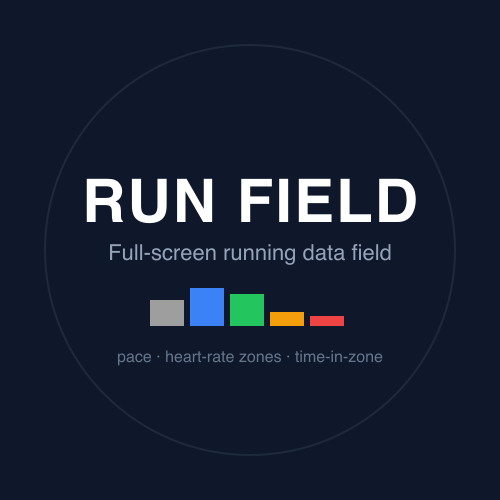
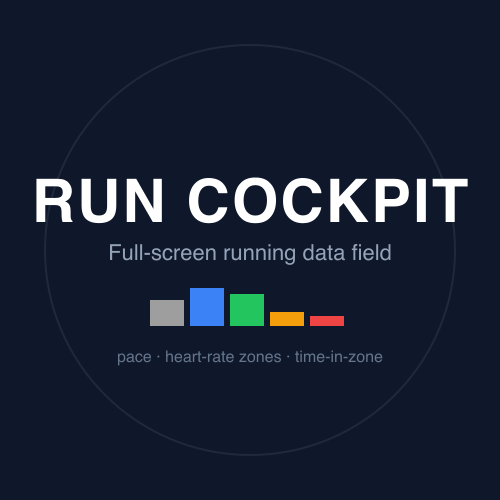
rename: Run Field -> Run Cockpit (dir, classes, strings, recipes, docs, store assets)
App ids are unchanged; the Store listing titles are renamed manually in the
dashboard on the next upload. bin/ intermediates cleaned.

Changed region(s): [[0.06, 0.33, 0.93, 0.45]]

diff --git a/RELEASE.md b/RELEASE.md
@@ -1,37 +1,37 @@
-# Releasing Run Field
+# Releasing Run Cockpit
 
 Two Connect IQ Store listings share one codebase and **one version number**. `just release`
 builds both signed `.iq` files at that version, so the listings never drift.
 
 | Track | App id | Name | Visibility | Artifact | Status |
 |---|---|---|---|---|---|
-| Beta | `2aa9eff51b0642519e6214de6db52342` | Run Field (Beta) | Private / unlisted | `bin/run-field-beta.iq` | **live** |
-| Public | `5f713bad3e2544559f1ba1cff9e59aa3` | Run Field | Public | `bin/run-field.iq` | pending listing |
+| Beta | `2aa9eff51b0642519e6214de6db52342` | Run Cockpit (Beta) | Private / unlisted | `bin/run-cockpit-beta.iq` | **live** |
+| Public | `5f713bad3e2544559f1ba1cff9e59aa3` | Run Cockpit | Public | `bin/run-cockpit.iq` | pending listing |
 
-The **Beta** listing is the one currently registered in Garmin — `run-field-beta.iq` is what
+The **Beta** listing is the one currently registered in Garmin — `run-cockpit-beta.iq` is what
 uploads successfully. The **Public** app id is a placeholder: that listing does not exist yet, so
-`run-field.iq` cannot be uploaded until it is created. To create it: add a new app in the Garmin
+`run-cockpit.iq` cannot be uploaded until it is created. To create it: add a new app in the Garmin
 developer dashboard, copy the app id Garmin assigns, and replace `public_app_id` in `justfile`
-**and** the `id="…"` in `apps/run-field/manifest.xml` with it (keep the two in sync).
+**and** the `id="…"` in `apps/run-cockpit/manifest.xml` with it (keep the two in sync).
 
 There is **no Garmin upload API** — the upload is a manual web step. The pipeline prepares
 everything; you click submit.
 
 ## Versioning
 
-One shared SemVer number lives in `apps/run-field/manifest.xml`. Bump **patch** for fixes, **minor**
+One shared SemVer number lives in `apps/run-cockpit/manifest.xml`. Bump **patch** for fixes, **minor**
 for features. Both `.iq` carry that same version. You upload the Beta `.iq` on every iteration and
 the Public `.iq` only at milestones — the two listings have independent version histories in Garmin,
 which only requires each new upload to a listing to be greater than that listing's last.
 
 ## Steps
-1. `just release X.Y.Z` — bumps the version, then builds **both** `bin/run-field.iq` and
-   `bin/run-field-beta.iq`. Edit `CHANGELOG.md` for the version.
+1. `just release X.Y.Z` — bumps the version, then builds **both** `bin/run-cockpit.iq` and
+   `bin/run-cockpit-beta.iq`. Edit `CHANGELOG.md` for the version.
 2. `just publish-assist` — prints the version + "What's New" + checklist + dashboard URL (no upload).
 3. In the dashboard (apps.garmin.com -> developer): upload the matching `.iq`, wait for binary
    validation, paste the "What's New", add screenshots, set visibility, submit.
-   - Beta: upload `bin/run-field-beta.iq` to the Beta listing (keep it private/unlisted).
-   - Public: upload `bin/run-field.iq` to the Public listing (once it exists).
+   - Beta: upload `bin/run-cockpit-beta.iq` to the Beta listing (keep it private/unlisted).
+   - Public: upload `bin/run-cockpit.iq` to the Public listing (once it exists).
 4. (Optional) Tag `vX.Y.Z` and attach the locally built `.iq` to a GitHub Release by hand —
    CI cannot build (Garmin's MFA blocks headless SDK logins) and has no release job.
 

diff --git a/README.md b/README.md
@@ -7,7 +7,7 @@ A monorepo structured to host multiple apps and shared barrels.
 
 | App | Type | Status |
 |---|---|---|
-| [`apps/run-field`](apps/run-field) | Data field | Running data field — full-screen stats page |
+| [`apps/run-cockpit`](apps/run-cockpit) | Data field | Running data field — full-screen stats page |
 
 ## Layout
 
@@ -23,14 +23,14 @@ A monorepo structured to host multiple apps and shared barrels.
   - GUI: `brew install --cask connectiq-sdk-manager`, sign in, download the latest SDK
     (Set as current) and the **Enduro 3** device + simulator; or
   - CLI: [`connect-iq-sdk-manager`](https://github.com/lindell/connect-iq-sdk-manager-cli)
-    (`login`, `sdk set <ver>`, `device download --manifest=apps/run-field/manifest.xml`).
+    (`login`, `sdk set <ver>`, `device download --manifest=apps/run-cockpit/manifest.xml`).
 - A developer signing key: `just key` (gitignored; never commit it).
 
 ### Everyday loop
 
 ```sh
 just doctor     # confirm SDK / device / key
-just build      # compile -> bin/run-field.prg   (override device: CIQ_DEVICE=<id> just build)
+just build      # compile -> bin/run-cockpit.prg   (override device: CIQ_DEVICE=<id> just build)
 just sim        # launch the simulator (GUI)
 just run        # build + run in the simulator
 just sideload   # copy the .prg to a USB-mounted watch
@@ -43,7 +43,7 @@ use **Simulation → Activity Data** in the simulator menu.
 Newer Garmin watches (incl. the Enduro 3) use **MTP**, which macOS does not mount as a disk
 (`/Volumes/GARMIN` will be absent). Google's Android File Transfer is deprecated and unreliable
 on recent macOS — use **[OpenMTP](https://openmtp.ganeshrvel.com/)** instead
-(`brew install --cask openmtp`): connect the watch, then copy `bin/run-field.prg` into
+(`brew install --cask openmtp`): connect the watch, then copy `bin/run-cockpit.prg` into
 `GARMIN/APPS/` on the device and restart it.
 
 ### Releasing
@@ -54,7 +54,7 @@ builds both signed `.iq` at that version. See [RELEASE.md](RELEASE.md) and the
 User-facing settings are documented in [store-assets/listing.md](store-assets/listing.md), which is also the maintained Connect IQ Store description.
 
 ### VS Code
-The official **Monkey C** extension reads `apps/run-field/manifest.xml` and `monkey.jungle`
+The official **Monkey C** extension reads `apps/run-cockpit/manifest.xml` and `monkey.jungle`
 directly — open the repo and build/debug from the extension if you prefer a GUI workflow.
 
 ## License

diff --git a/docs/store-screenshots.md b/docs/store-screenshots.md
@@ -1,6 +1,6 @@
 # Store screenshots from the simulator
 
-Repeatable procedure for producing real Connect IQ Store screenshots of the run-field
+Repeatable procedure for producing real Connect IQ Store screenshots of the run-cockpit
 data field, with realistic ("faked") activity values. Screenshots are captured from the
 simulator's own **File → Save Screen Capture**, which writes the device screen at native
 resolution (280×280 on the Enduro 3) — pixel-perfect, no window chrome, and it needs
@@ -23,16 +23,16 @@ The sim cannot supply everything the field needs for colourful shots:
 
 1. **Threshold pace** — app-settings defaults only apply on first install, and the sim's
    App Settings editor does not see monkeydo-loaded apps. Patch the default:
-   in `apps/run-field/resources/settings/properties.xml` set the `thresholdPace`
+   in `apps/run-cockpit/resources/settings/properties.xml` set the `thresholdPace`
    property value to `4:00`.
 2. **HR + power zones** — the simulator's user-profile HR zones are internal defaults
    (the User Profile Editor's zone widget is display-only, not scriptable) and it has
-   no running power zones at all. Pin both in `RunFieldView.reloadSettings()`:
+   no running power zones at all. Pin both in `RunCockpitView.reloadSettings()`:
    - make the HR-zone fallback unconditional: `if (z == null || z.size() < 6) {` → `if (true) {`
    - after `var pz = UserProfile.getPowerZones(Activity.SPORT_RUNNING);` add
      `pz = [155, 210, 250, 300, 355, 420];`
 
-Revert both when done: `git checkout apps/run-field/`.
+Revert both when done: `git checkout apps/run-cockpit/`.
 
 ## Procedure
 
@@ -54,7 +54,7 @@ uv run --with fit-tool python3 tools/gen_store_fit.py
 tools/store_shoot.sh
 
 # 5. review bin/s*-*.png, copy keepers to store-assets/screenshots/, then:
-git checkout apps/run-field/               # drop the fake patches
+git checkout apps/run-cockpit/               # drop the fake patches
 just build                                 # rebuild clean
 ```
 

diff --git a/CLAUDE.md b/CLAUDE.md
@@ -9,7 +9,7 @@ do not reference sibling repositories by local path; link public repos by URL on
 
 | Path | Purpose |
 |---|---|
-| `apps/run-field/` | Full-screen running **data field** (the first app) |
+| `apps/run-cockpit/` | Full-screen running **data field** (the first app) |
 | `barrels/` | Shared Monkey C code (Connect IQ barrels) — empty until needed |
 | `bin/` | Build output (`.prg` / `.iq`) — gitignored |
 
@@ -27,7 +27,7 @@ do not reference sibling repositories by local path; link public repos by URL on
 
 - `just doctor` — check SDK / device / key are in place
 - `just key` — generate a developer signing key (one-time)
-- `just build` — compile apps/run-field to bin/run-field.prg
+- `just build` — compile apps/run-cockpit to bin/run-cockpit.prg
 - `just sim` — launch the Connect IQ simulator
 - `just run` — build + run in the simulator (sim must be running)
 - `just dev` — build + auto-launch the sim if needed + load the field (self-serve start; re-run to reload)
@@ -49,8 +49,8 @@ do not reference sibling repositories by local path; link public repos by URL on
   AppleScript capture pipeline, temporary zone/threshold patches, sim gotchas) is in
   `docs/store-screenshots.md`.
 - **Publish (manual):** `just publish-assist` prints the version + "What's New" + checklist +
-  dashboard URL (it does not open a browser or upload). The **Beta** listing (`bin/run-field-beta.iq`,
-  app id `2aa9eff5…`) is the live one; the **Public** listing (`bin/run-field.iq`, `5f713bad…`) is a
+  dashboard URL (it does not open a browser or upload). The **Beta** listing (`bin/run-cockpit-beta.iq`,
+  app id `2aa9eff5…`) is the live one; the **Public** listing (`bin/run-cockpit.iq`, `5f713bad…`) is a
   placeholder until that listing is created. See `RELEASE.md` for app ids/steps.
 - **CI:** SDK-free sanity checks only (XML well-formedness). Garmin's MFA blocks headless SDK
   logins, so compiles/tests/releases all run locally — there is no CI build or tag-release job.

diff --git a/CHANGELOG.md b/CHANGELOG.md
@@ -1,6 +1,6 @@
 # Changelog
 
-All notable changes to the Run Field data field. Format: [Keep a Changelog](https://keepachangelog.com/),
+All notable changes to the Run Cockpit data field (formerly "Run Field"). Format: [Keep a Changelog](https://keepachangelog.com/),
 versioning: [SemVer](https://semver.org/). The top released section's body is pasted as the Store
 "What's New" text via `just publish-assist` — keep it plain text: the Store rejects `<` and `>`.
 
